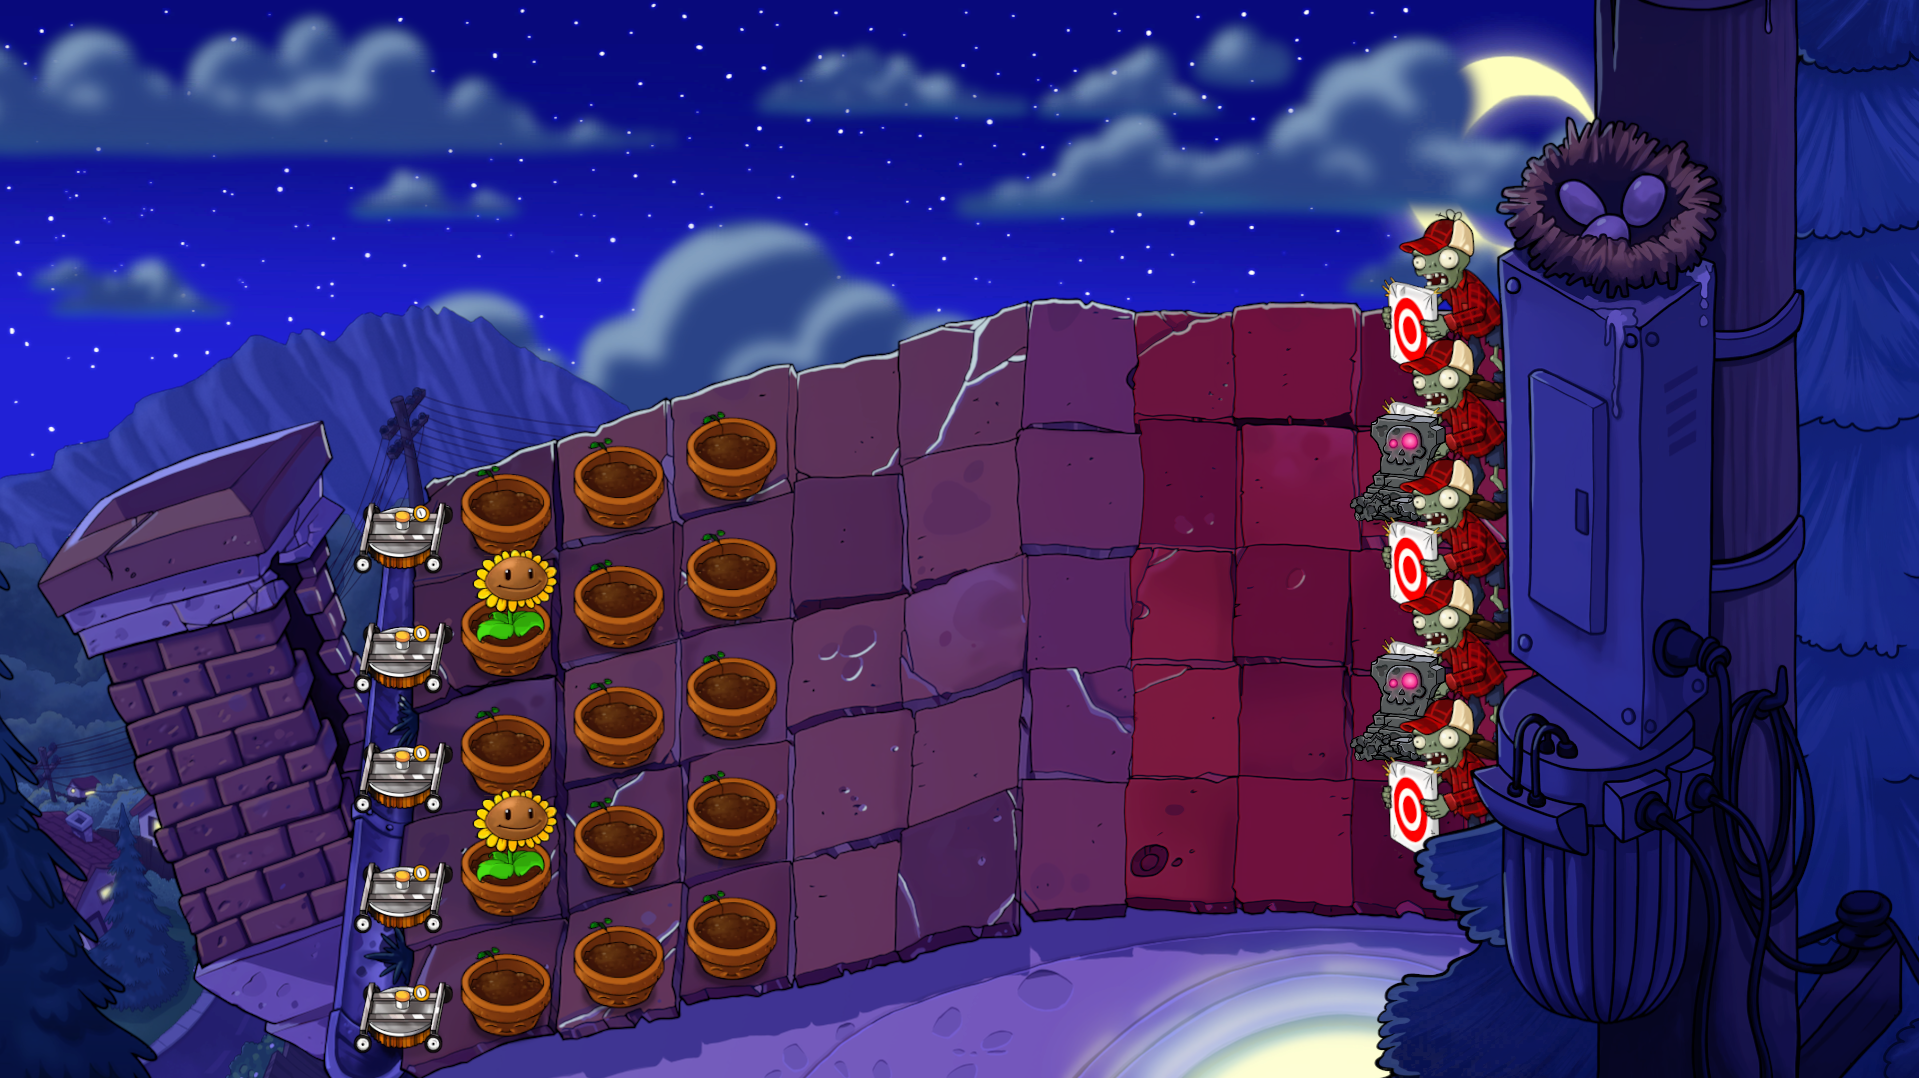
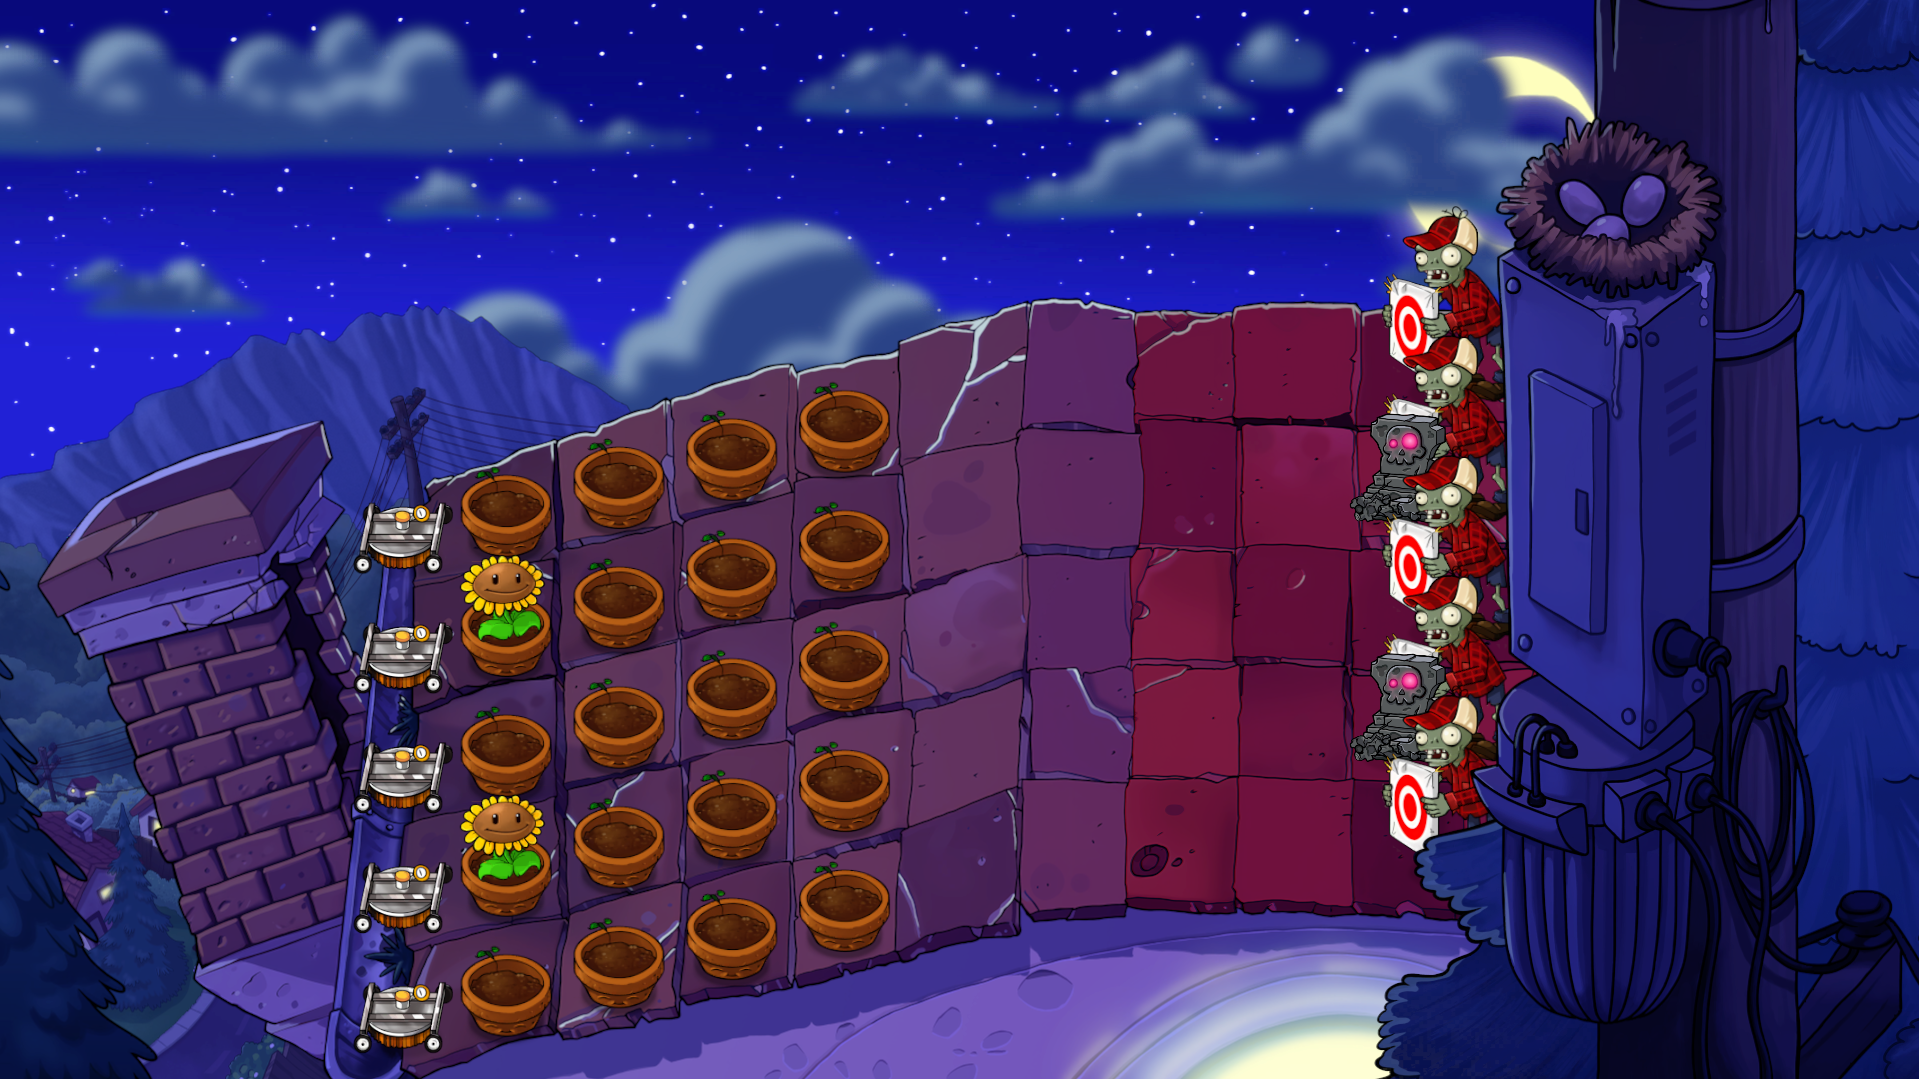
Add extra starting column of flower pots on Roof Night

diff --git a/src/Modules/Reloaded/Versus/Arenas/RoofArena.cs b/src/Modules/Reloaded/Versus/Arenas/RoofArena.cs
@@ -123,7 +123,9 @@ internal class RoofArena : IArena, IArenaData, IArenaSetupSeedbank
             SeedPacketDefinitions.SpawnZombie(ZombieType.Gravestone, 8, 1, true);
             SeedPacketDefinitions.SpawnZombie(ZombieType.Gravestone, 8, 3, true);
 
-            for (int column = 0; column < 3; column++)
+            int numColumns = !Type.IsArenaAtNight() ? 3 : 4;
+
+            for (int column = 0; column < numColumns; column++)
             {
                 for (int row = 0; row < versusMode.m_board.GetNumRows(); row++)
                 {
